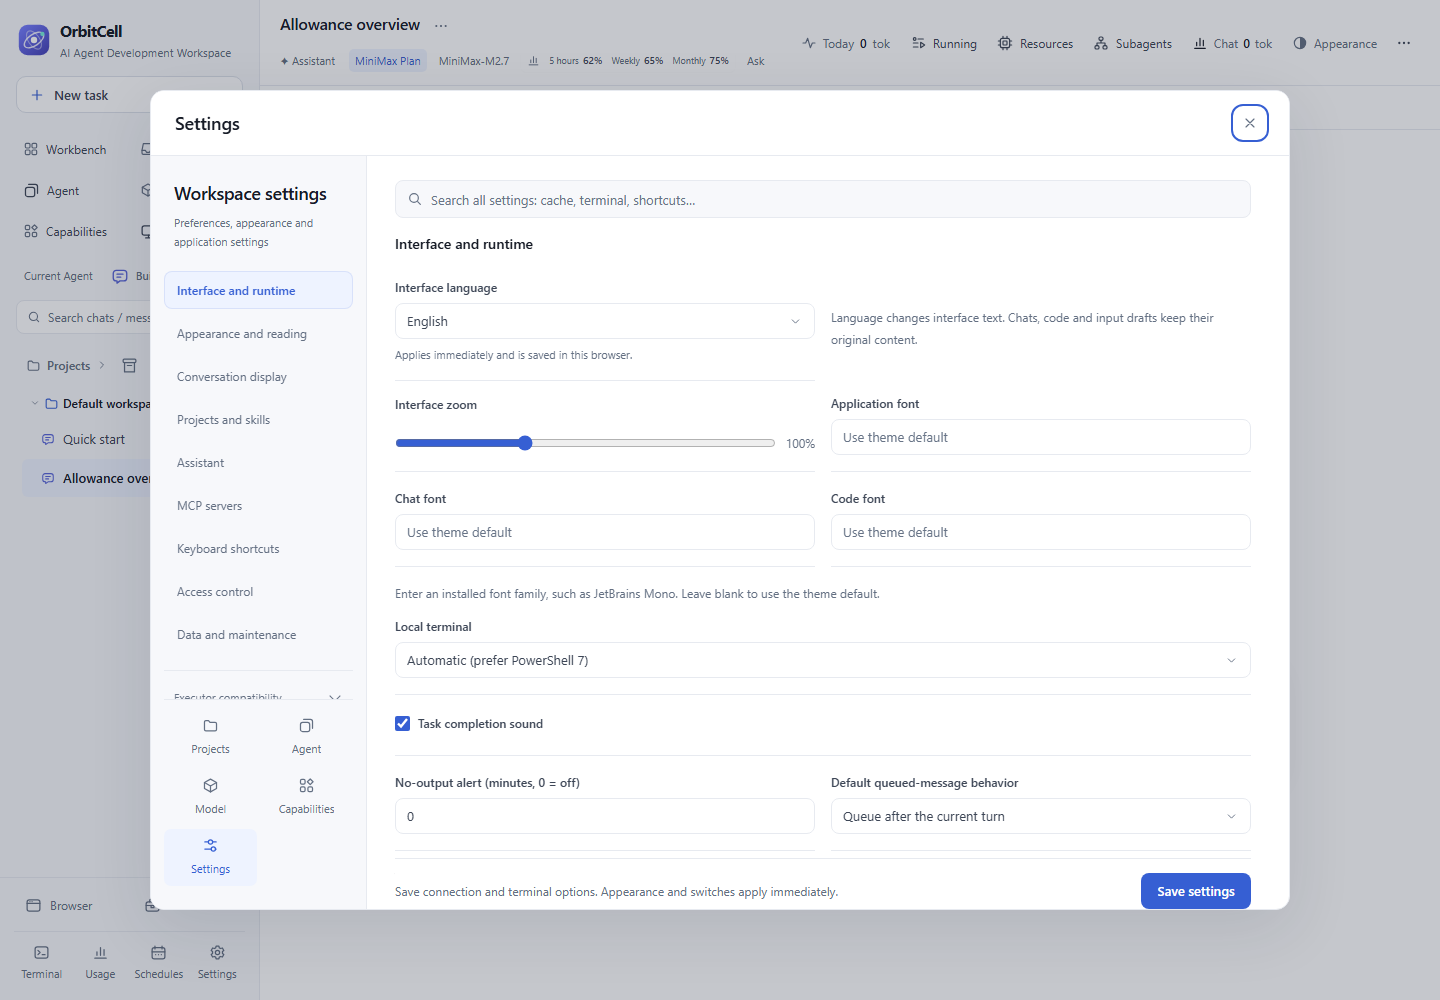
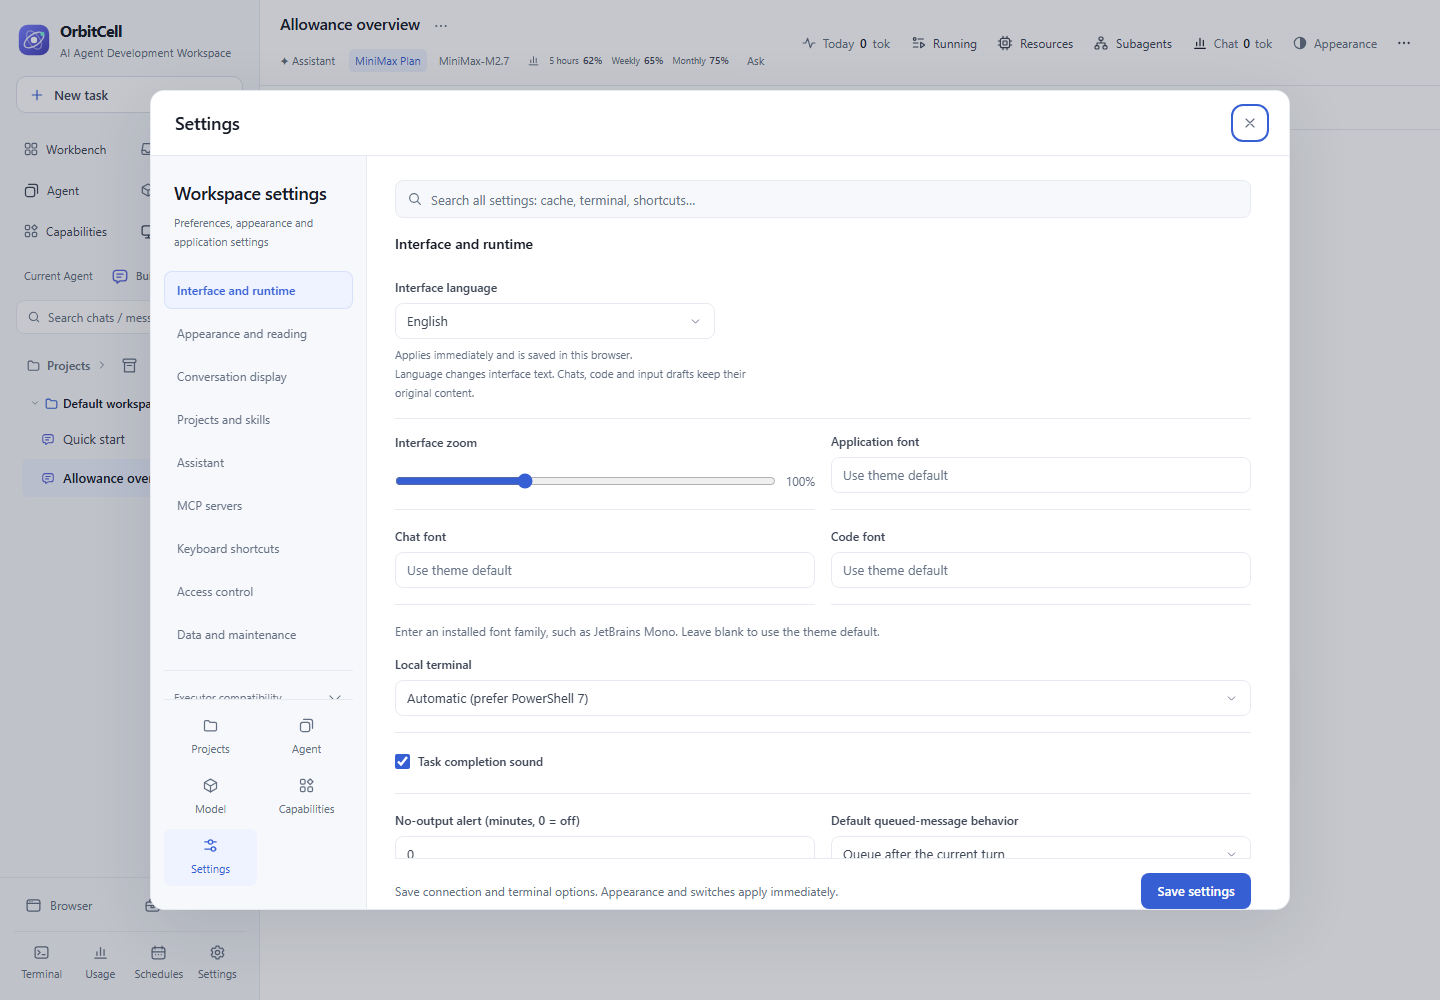
Align language settings help below a compact selector

diff --git a/public/app.js b/public/app.js
@@ -13323,8 +13323,7 @@ async function showSettings(preferredSection) {
     <section class="settings-source-card">${settingsProvenanceHtml()}</section>
     <h4 id="settings-preferences" data-settings-section="settings-preferences" class="dialog-section-title settings-section-title">界面与运行</h4>
     <div class="form-grid settings-option-grid settings-language-grid">
-      <div class="fld"><label for="setLocale">界面语言</label><select id="setLocale" data-ui-locale data-settings-local="1" aria-label="界面语言">${(window.AgentHubLocale?.catalog()||[]).map(l=>`<option value="${esc(l.id)}" data-i18n-ignore ${l.id===window.AgentHubLocale.selection?'selected':''}>${esc(l.name)}</option>`).join('')}</select><small>即时生效，保存在当前浏览器。</small></div>
-      <div class="fld dialog-note" style="align-self:center">语言设置只改变界面文字，聊天内容、代码和输入草稿保留原文。</div>
+      <div class="fld settings-language-field"><label for="setLocale">界面语言</label><select id="setLocale" data-ui-locale data-settings-local="1" aria-label="界面语言" aria-describedby="setLocaleHint">${(window.AgentHubLocale?.catalog()||[]).map(l=>`<option value="${esc(l.id)}" data-i18n-ignore ${l.id===window.AgentHubLocale.selection?'selected':''}>${esc(l.name)}</option>`).join('')}</select><small class="settings-language-help" id="setLocaleHint"><span>即时生效，保存在当前浏览器。</span><span>语言设置只改变界面文字，聊天内容、代码和输入草稿保留原文。</span></small></div>
     </div>
     <div class="form-grid settings-option-grid">
       <div class="fld setting-range">

diff --git a/public/orbitcell.css b/public/orbitcell.css
@@ -129,7 +129,10 @@
 html:not([lang^="zh"]) .manage-global-nav{grid-template-columns:repeat(3,minmax(0,1fr))}
 html:not([lang^="zh"]) .settings-sidebar .manage-global-nav{grid-template-columns:repeat(2,minmax(0,1fr))}
 .manage-global-nav button>span{max-width:100%;overflow:hidden;text-overflow:ellipsis;white-space:nowrap}
-.settings-pane .settings-language-grid>.dialog-note{grid-column:auto;align-self:center;border:0;padding:0;line-height:1.8}
+.settings-pane .settings-language-grid{grid-template-columns:minmax(0,1fr)}
+.settings-language-field>.select-control{width:320px;max-width:100%}
+.settings-language-help{max-width:64ch}
+.settings-language-help>span{display:block}
 #dlg:has(.layout-order-editor){width:min(704px,calc(100vw / var(--ui-zoom,1) - 32px));max-width:none}
 .layout-order-editor{display:flex;flex-direction:column;gap:12px;width:100%;max-width:640px;max-height:calc(100dvh / var(--ui-zoom,1) - 160px);min-width:0;min-height:0;margin:auto}
 .layout-order-editor>:not(.order-list){flex:none}
